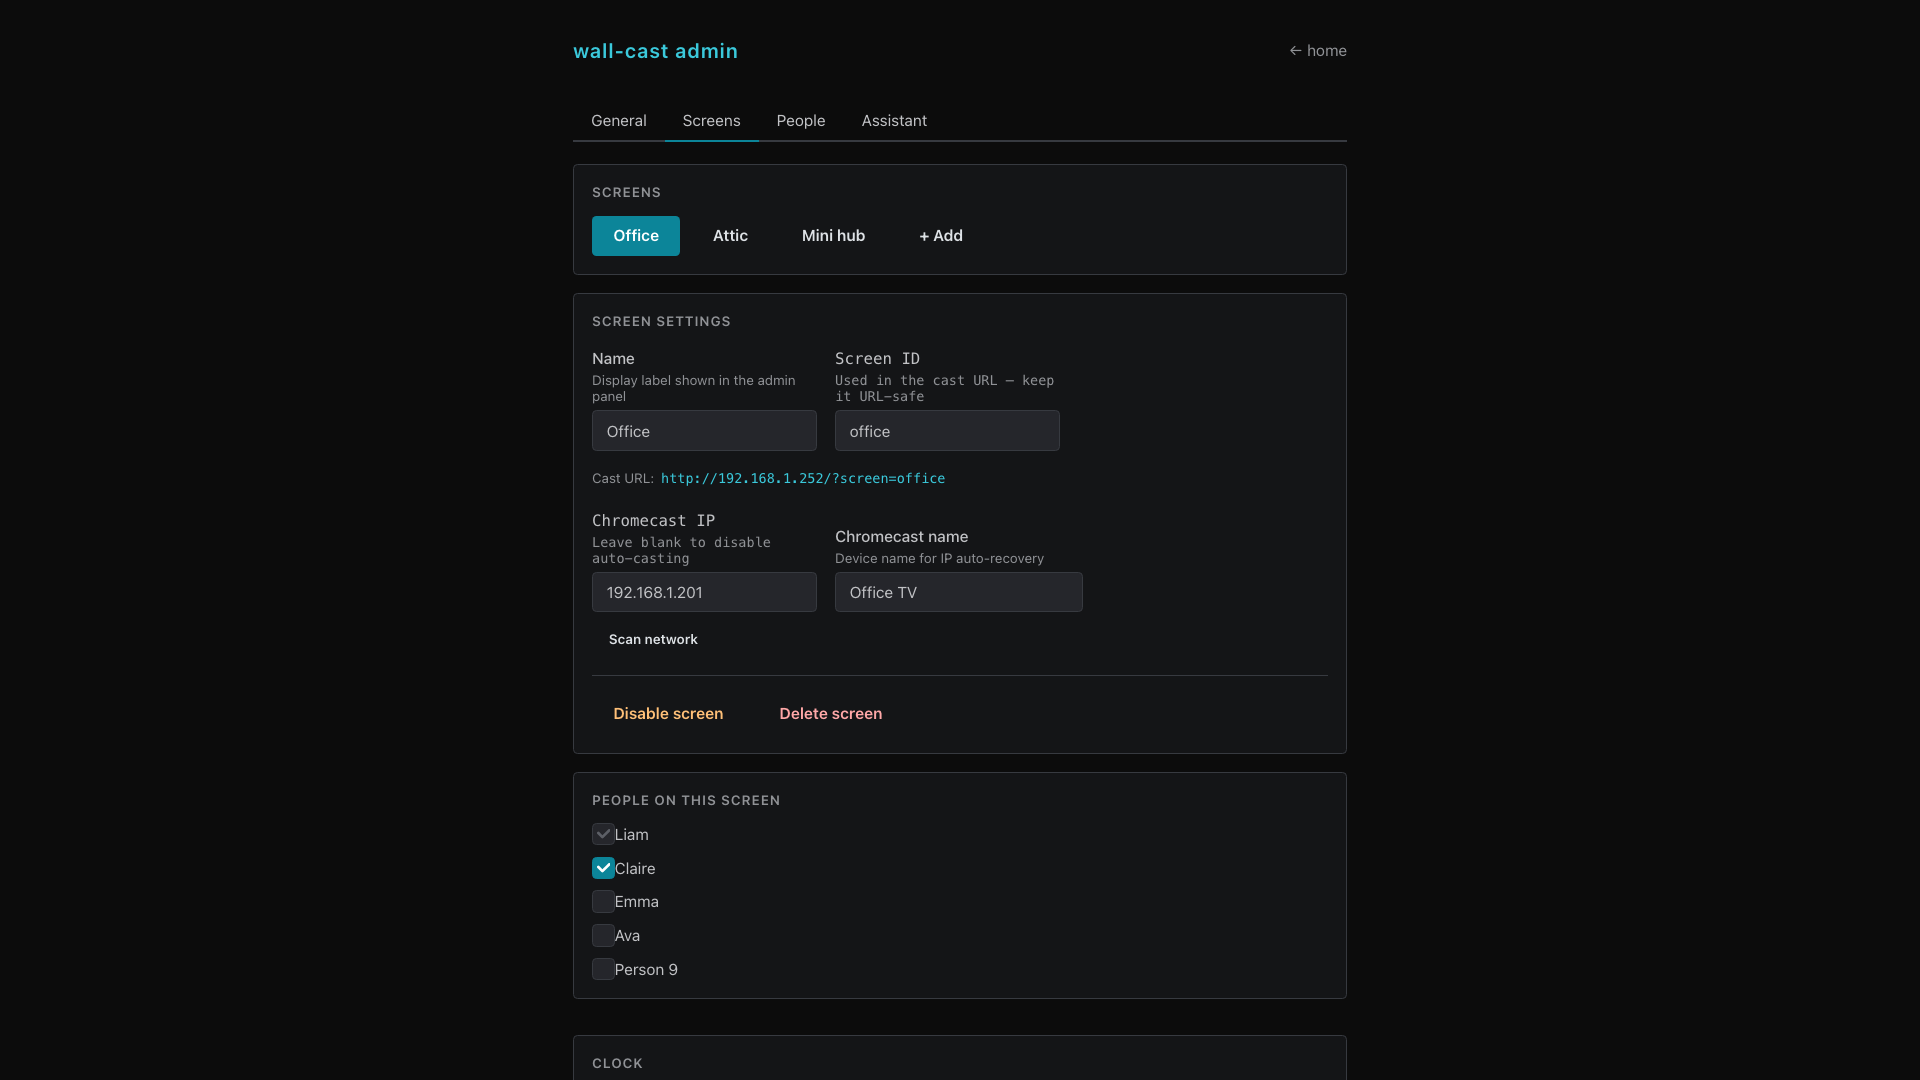
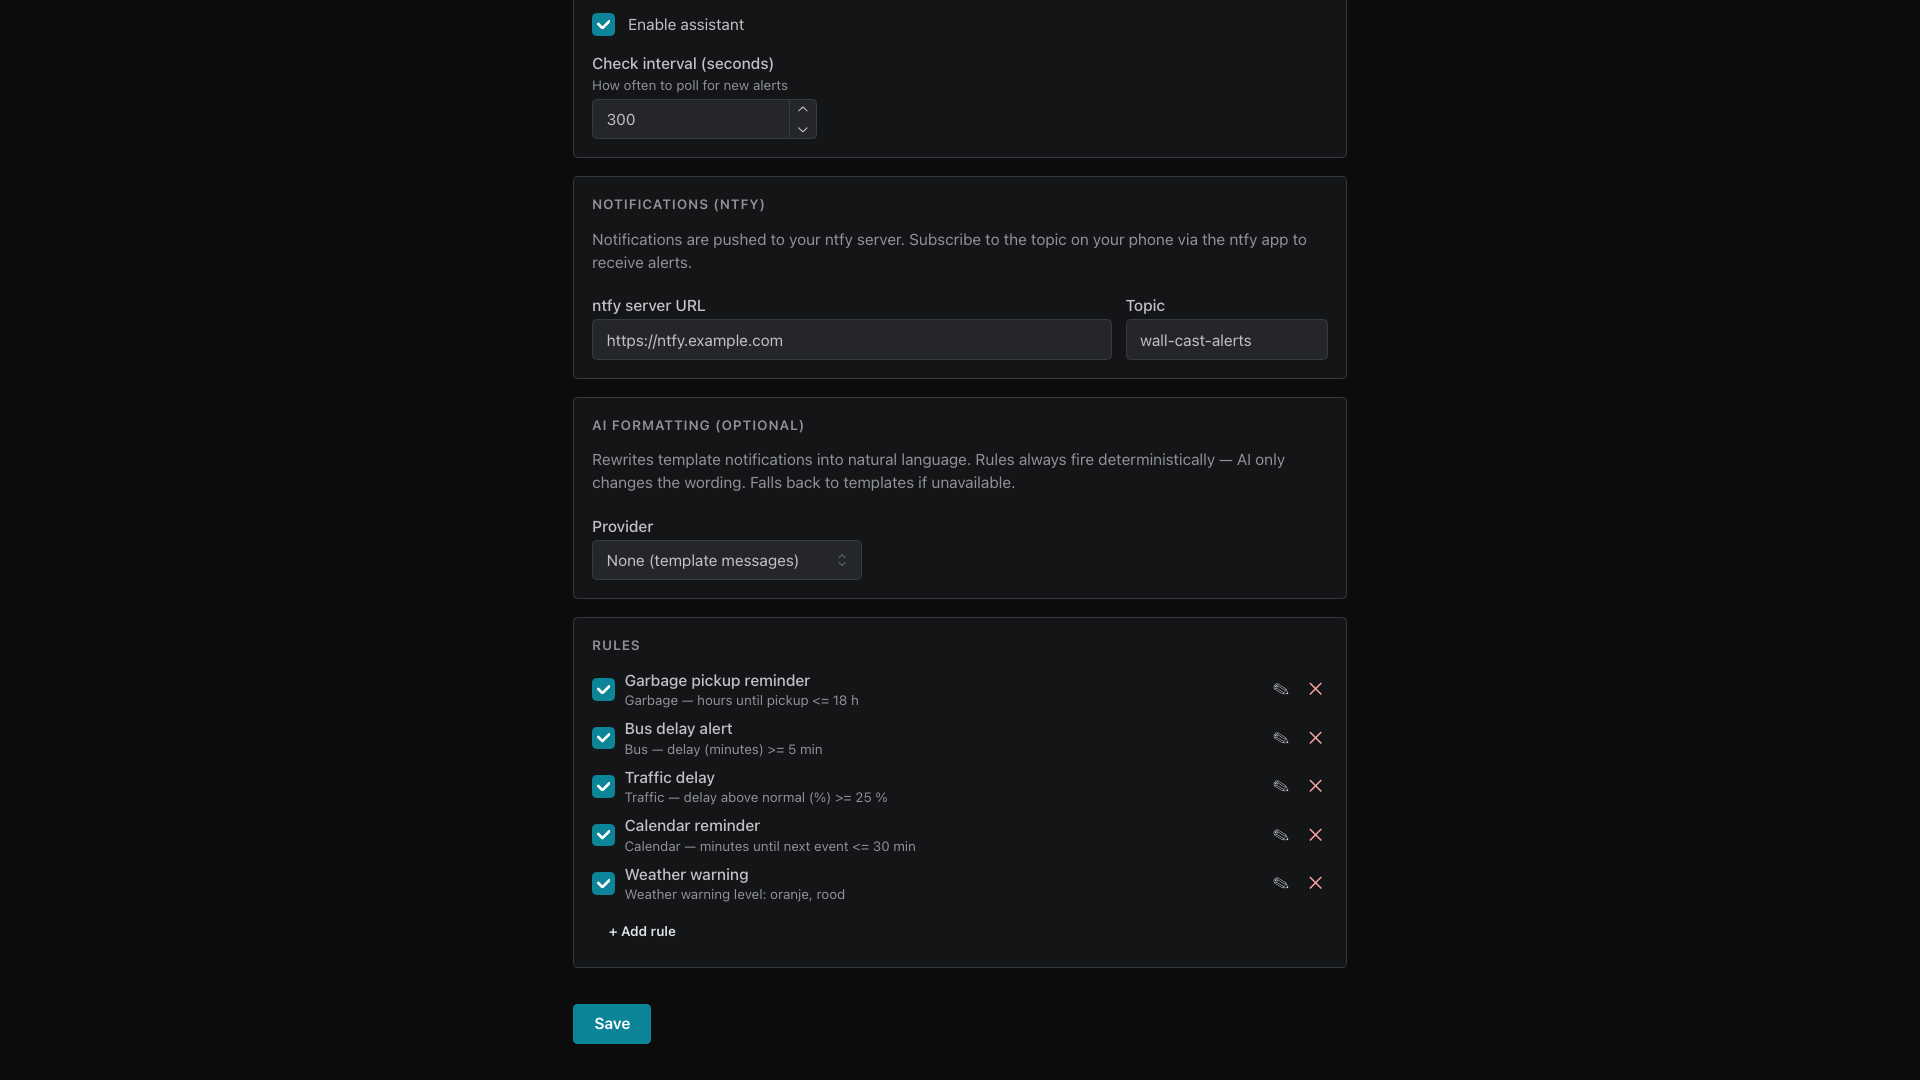
chore(screenshots): update README screenshots — rules UI
screenshot-6 now shows the admin Assistant tab with the new rules list
(condition summaries, edit/delete buttons, + Add rule). Added ntfy URL
and odometer reading to PII scrubbing rules.

Changed region(s): [[0.2812, 0.0, 0.6875, 1.0], [0.5938, 0.275, 0.6562, 0.3361], [0.4062, 0.825, 0.4375, 0.8556]]

diff --git a/docs/screenshots/make_screenshots.py b/docs/screenshots/make_screenshots.py
@@ -19,7 +19,7 @@ What it does:
   5. Takes a 1920×1080 screenshot
   6. Produces 6 PNGs:   screenshot-{1-4}.png  (display screens)
                         screenshot-5.png       (landing page)
-                        screenshot-6.png       (admin panel, Screens tab)
+                        screenshot-6.png       (admin panel, Assistant tab — Rules section)
 
 Rotator slot reference (update if widget order changes in wall-cast.yaml):
     main   rotator (right/large):  0=weather  1=calendar  2=traffic  3=warnings
@@ -70,6 +70,8 @@ TEXT_REPLACEMENTS = [
     # ── Bus stop names ──
     ("Polakkenbrug",   "Leidseplein"),
     ("Rembrandtplein", "Leidseplein"),
+    # ── ntfy server URL ──
+    ("ntfy.macjuu.com", "ntfy.example.com"),
     # ── LAN IPs from the VPS subnet (192.168.101.x → anonymised subnet) ──
     ("192.168.101.", "192.168.1."),
 ]
@@ -148,12 +150,15 @@ ROTATOR_JS = """
 REPLACE_JS = """
 ([pairs, fakePublicIp]) => {
   const PUBLIC_IP_RE = /\\b(?!(?:10\\.|172\\.(?:1[6-9]|2\\d|3[01])\\.|192\\.168\\.|127\\.))(?:\\d{1,3}\\.){3}\\d{1,3}\\b/g;
+  // Odometer readings: e.g. "71,087km" / "71.087 km" / "123,456 km"
+  const ODOMETER_RE = /\\b\\d{2,3}[.,]\\d{3}\\s*km\\b/gi;
 
   function sub(str) {
     for (const [from, to] of pairs) {
       if (str.includes(from)) str = str.split(from).join(to);
     }
-    return str.replace(PUBLIC_IP_RE, fakePublicIp);
+    str = str.replace(PUBLIC_IP_RE, fakePublicIp);
+    return str.replace(ODOMETER_RE, '42,000 km');
   }
 
   function walk(node) {
@@ -350,34 +355,34 @@ async def main() -> None:
         print("       ✓ screenshot-5.png\n")
         await page.close()
 
-        # ── Admin panel — Screens tab (6) ──────────────────────────────────────
-        print("[6/6] /#admin  (Screens tab)")
+        # ── Admin panel — Assistant tab / Rules section (6) ───────────────────
+        print("[6/6] /#admin  (Assistant tab — Rules section)")
         page = await context.new_page()
         await page.goto(f"{BASE_URL}/#admin", wait_until="load", timeout=20000)
-        # Wait for the admin config (people, screens) to load from the API
+        # Wait for tabs to render
         await page.wait_for_function(
             "() => document.querySelector('[class*=\"Tabs-tab\"]') !== null",
             timeout=10000,
         )
         await page.wait_for_timeout(1500)
+        # Click the Assistant tab
         await page.evaluate("""() => {
             const btn = Array.from(document.querySelectorAll('button'))
-              .find(b => b.textContent.trim() === 'Screens');
+              .find(b => b.textContent.trim() === 'Assistant');
             if (btn) btn.click();
         }""")
-        # Wait until the People checkboxes are in the DOM, then anonymise twice
-        # (second pass catches anything that rendered just after the first pass)
-        await page.wait_for_function(
-            "() => document.querySelectorAll('input[type=\"checkbox\"]').length > 0",
-            timeout=8000,
-        )
-        await page.wait_for_timeout(500)
+        # Wait for the tab panel content to fully load
+        await page.wait_for_timeout(1500)
         await anonymise(page)
-        # Targeted pass: overwrite Mantine Checkbox labels in the People section
-        # by DOM position — handles names with special chars or unusual encoding.
-        await page.evaluate(REPLACE_PEOPLE_LABELS_JS, GENERIC_PEOPLE_NAMES)
+        # Scroll to the Rules section (try both uppercase and mixed case)
+        await page.evaluate("""() => {
+            const el = Array.from(document.querySelectorAll('*'))
+              .find(e => e.children.length === 0 &&
+                         /^rules$/i.test(e.textContent.trim()));
+            if (el) el.scrollIntoView({ block: 'center' });
+        }""")
         await page.wait_for_timeout(200)
-        await anonymise(page)   # final pass for any remaining text nodes
+        await anonymise(page)   # final pass after scroll
 
         await page.screenshot(path=str(OUT_DIR / "screenshot-6.png"), type="png")
         print("       ✓ screenshot-6.png\n")
